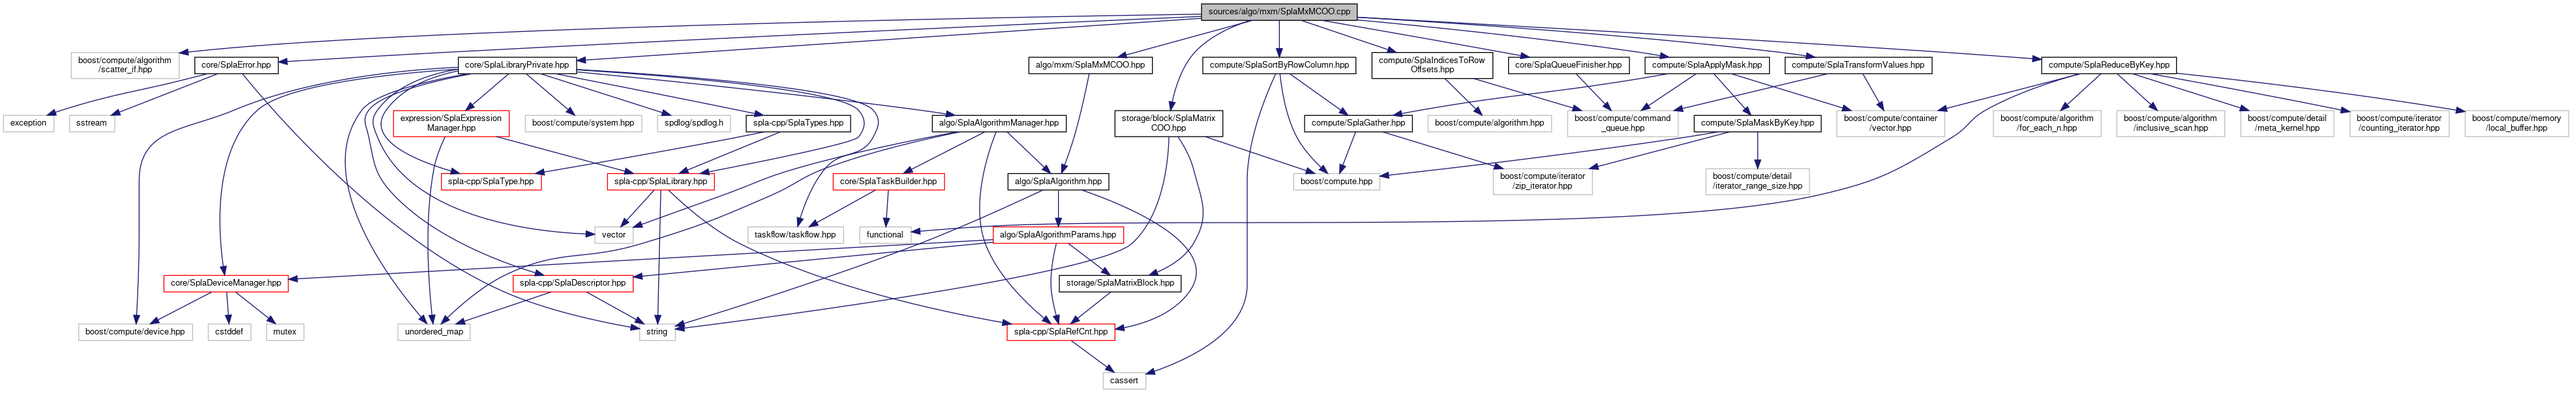
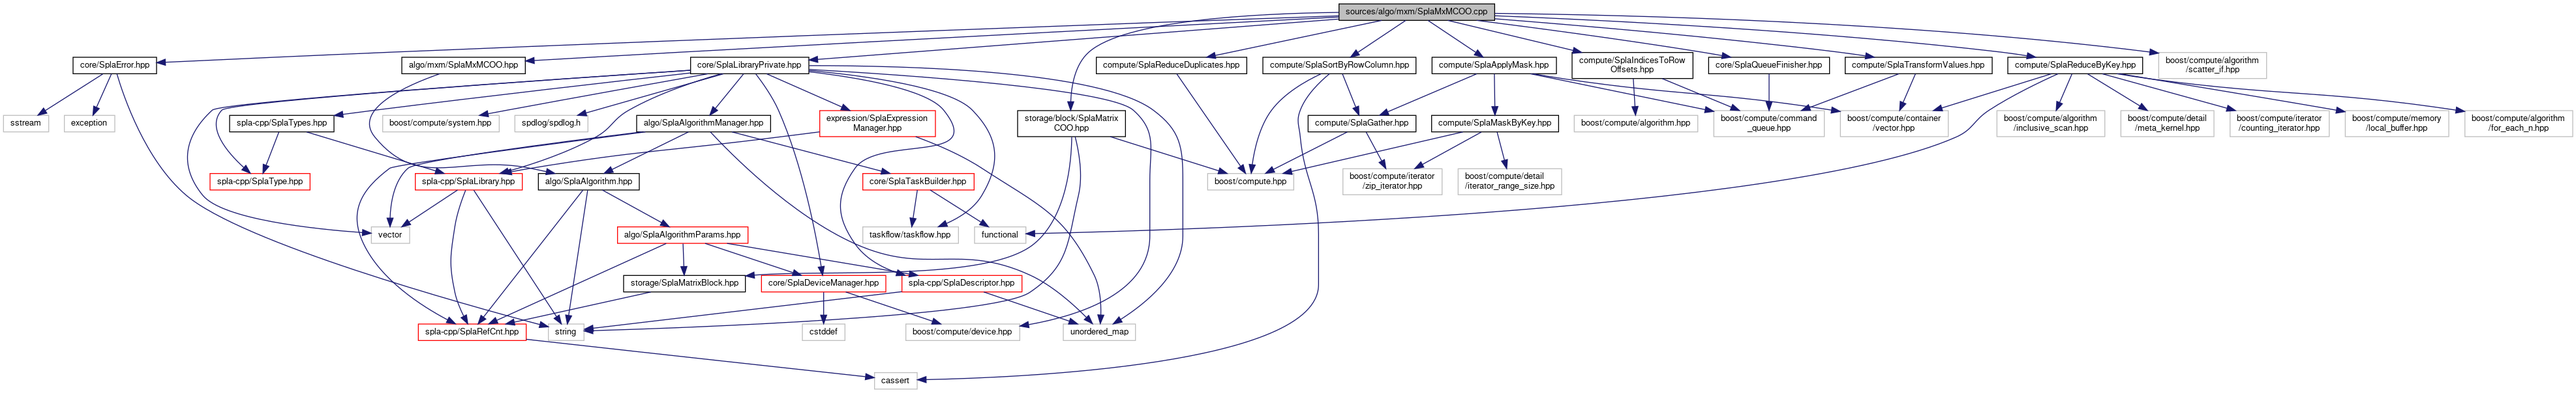
deploy: 72efadf4f2c9c58a021727ab670b9ccb939879e3

diff --git a/dir_000003_000008.html b/dir_000003_000008.html
@@ -65,7 +65,7 @@ $(function() {
 </div>
 </div><!-- top -->
 <div class="contents">
-<h3>algo &rarr; compute Relation</h3><table class="dirtab"><tr class="dirtab"><th class="dirtab">File in sources/algo</th><th class="dirtab">Includes file in sources/compute</th></tr><tr class="dirtab"><td class="dirtab"><a class="el" href="dir_35f91498b7ffde7c990e25df80c2a440.html">matrix</a>&#160;/&#160;<a class="el" href="SplaMatrixEWiseAddCOO_8cpp.html">SplaMatrixEWiseAddCOO.cpp</a></td><td class="dirtab"><a class="el" href="SplaGather_8hpp.html">SplaGather.hpp</a></td></tr><tr class="dirtab"><td class="dirtab"><a class="el" href="dir_35f91498b7ffde7c990e25df80c2a440.html">matrix</a>&#160;/&#160;<a class="el" href="SplaMatrixEWiseAddCOO_8cpp.html">SplaMatrixEWiseAddCOO.cpp</a></td><td class="dirtab"><a class="el" href="SplaMaskByKey_8hpp.html">SplaMaskByKey.hpp</a></td></tr><tr class="dirtab"><td class="dirtab"><a class="el" href="dir_35f91498b7ffde7c990e25df80c2a440.html">matrix</a>&#160;/&#160;<a class="el" href="SplaMatrixEWiseAddCOO_8cpp.html">SplaMatrixEWiseAddCOO.cpp</a></td><td class="dirtab"><a class="el" href="SplaMergeByKey_8hpp.html">SplaMergeByKey.hpp</a></td></tr><tr class="dirtab"><td class="dirtab"><a class="el" href="dir_35f91498b7ffde7c990e25df80c2a440.html">matrix</a>&#160;/&#160;<a class="el" href="SplaMatrixEWiseAddCOO_8cpp.html">SplaMatrixEWiseAddCOO.cpp</a></td><td class="dirtab"><a class="el" href="SplaReduceDuplicates_8hpp.html">SplaReduceDuplicates.hpp</a></td></tr><tr class="dirtab"><td class="dirtab"><a class="el" href="dir_8a44f30f52d2d939726e19a7a4f1b631.html">mxm</a>&#160;/&#160;<a class="el" href="SplaMxMCOO_8cpp.html">SplaMxMCOO.cpp</a></td><td class="dirtab"><a class="el" href="SplaApplyMask_8hpp.html">SplaApplyMask.hpp</a></td></tr><tr class="dirtab"><td class="dirtab"><a class="el" href="dir_8a44f30f52d2d939726e19a7a4f1b631.html">mxm</a>&#160;/&#160;<a class="el" href="SplaMxMCOO_8cpp.html">SplaMxMCOO.cpp</a></td><td class="dirtab"><a class="el" href="SplaIndicesToRowOffsets_8hpp.html">SplaIndicesToRowOffsets.hpp</a></td></tr><tr class="dirtab"><td class="dirtab"><a class="el" href="dir_8a44f30f52d2d939726e19a7a4f1b631.html">mxm</a>&#160;/&#160;<a class="el" href="SplaMxMCOO_8cpp.html">SplaMxMCOO.cpp</a></td><td class="dirtab"><a class="el" href="SplaReduceByKey_8hpp.html">SplaReduceByKey.hpp</a></td></tr><tr class="dirtab"><td class="dirtab"><a class="el" href="dir_8a44f30f52d2d939726e19a7a4f1b631.html">mxm</a>&#160;/&#160;<a class="el" href="SplaMxMCOO_8cpp.html">SplaMxMCOO.cpp</a></td><td class="dirtab"><a class="el" href="SplaSortByRowColumn_8hpp.html">SplaSortByRowColumn.hpp</a></td></tr><tr class="dirtab"><td class="dirtab"><a class="el" href="dir_8a44f30f52d2d939726e19a7a4f1b631.html">mxm</a>&#160;/&#160;<a class="el" href="SplaMxMCOO_8cpp.html">SplaMxMCOO.cpp</a></td><td class="dirtab"><a class="el" href="SplaTransformValues_8hpp.html">SplaTransformValues.hpp</a></td></tr><tr class="dirtab"><td class="dirtab"><a class="el" href="dir_4bfac634b760e84e6bfa72debc69dfd2.html">vector</a>&#160;/&#160;<a class="el" href="SplaVectorAssignCOO_8cpp.html">SplaVectorAssignCOO.cpp</a></td><td class="dirtab"><a class="el" href="SplaGather_8hpp.html">SplaGather.hpp</a></td></tr><tr class="dirtab"><td class="dirtab"><a class="el" href="dir_4bfac634b760e84e6bfa72debc69dfd2.html">vector</a>&#160;/&#160;<a class="el" href="SplaVectorAssignCOO_8cpp.html">SplaVectorAssignCOO.cpp</a></td><td class="dirtab"><a class="el" href="SplaMaskByKey_8hpp.html">SplaMaskByKey.hpp</a></td></tr><tr class="dirtab"><td class="dirtab"><a class="el" href="dir_4bfac634b760e84e6bfa72debc69dfd2.html">vector</a>&#160;/&#160;<a class="el" href="SplaVectorEWiseAddCOO_8cpp.html">SplaVectorEWiseAddCOO.cpp</a></td><td class="dirtab"><a class="el" href="SplaGather_8hpp.html">SplaGather.hpp</a></td></tr><tr class="dirtab"><td class="dirtab"><a class="el" href="dir_4bfac634b760e84e6bfa72debc69dfd2.html">vector</a>&#160;/&#160;<a class="el" href="SplaVectorEWiseAddCOO_8cpp.html">SplaVectorEWiseAddCOO.cpp</a></td><td class="dirtab"><a class="el" href="SplaMaskByKey_8hpp.html">SplaMaskByKey.hpp</a></td></tr><tr class="dirtab"><td class="dirtab"><a class="el" href="dir_4bfac634b760e84e6bfa72debc69dfd2.html">vector</a>&#160;/&#160;<a class="el" href="SplaVectorEWiseAddCOO_8cpp.html">SplaVectorEWiseAddCOO.cpp</a></td><td class="dirtab"><a class="el" href="SplaMergeByKey_8hpp.html">SplaMergeByKey.hpp</a></td></tr><tr class="dirtab"><td class="dirtab"><a class="el" href="dir_4bfac634b760e84e6bfa72debc69dfd2.html">vector</a>&#160;/&#160;<a class="el" href="SplaVectorEWiseAddCOO_8cpp.html">SplaVectorEWiseAddCOO.cpp</a></td><td class="dirtab"><a class="el" href="SplaReduceDuplicates_8hpp.html">SplaReduceDuplicates.hpp</a></td></tr><tr class="dirtab"><td class="dirtab"><a class="el" href="dir_ae3bf4b023994b257aa9f3d0308d7e2e.html">vxm</a>&#160;/&#160;<a class="el" href="SplaVxMCOO_8cpp.html">SplaVxMCOO.cpp</a></td><td class="dirtab"><a class="el" href="SplaApplyMask_8hpp.html">SplaApplyMask.hpp</a></td></tr><tr class="dirtab"><td class="dirtab"><a class="el" href="dir_ae3bf4b023994b257aa9f3d0308d7e2e.html">vxm</a>&#160;/&#160;<a class="el" href="SplaVxMCOO_8cpp.html">SplaVxMCOO.cpp</a></td><td class="dirtab"><a class="el" href="SplaIndicesToRowOffsets_8hpp.html">SplaIndicesToRowOffsets.hpp</a></td></tr><tr class="dirtab"><td class="dirtab"><a class="el" href="dir_ae3bf4b023994b257aa9f3d0308d7e2e.html">vxm</a>&#160;/&#160;<a class="el" href="SplaVxMCOO_8cpp.html">SplaVxMCOO.cpp</a></td><td class="dirtab"><a class="el" href="SplaReduceByKey_8hpp.html">SplaReduceByKey.hpp</a></td></tr><tr class="dirtab"><td class="dirtab"><a class="el" href="dir_ae3bf4b023994b257aa9f3d0308d7e2e.html">vxm</a>&#160;/&#160;<a class="el" href="SplaVxMCOO_8cpp.html">SplaVxMCOO.cpp</a></td><td class="dirtab"><a class="el" href="SplaReduceDuplicates_8hpp.html">SplaReduceDuplicates.hpp</a></td></tr><tr class="dirtab"><td class="dirtab"><a class="el" href="dir_ae3bf4b023994b257aa9f3d0308d7e2e.html">vxm</a>&#160;/&#160;<a class="el" href="SplaVxMCOO_8cpp.html">SplaVxMCOO.cpp</a></td><td class="dirtab"><a class="el" href="SplaSortByRow_8hpp.html">SplaSortByRow.hpp</a></td></tr><tr class="dirtab"><td class="dirtab"><a class="el" href="dir_ae3bf4b023994b257aa9f3d0308d7e2e.html">vxm</a>&#160;/&#160;<a class="el" href="SplaVxMCOO_8cpp.html">SplaVxMCOO.cpp</a></td><td class="dirtab"><a class="el" href="SplaTransformValues_8hpp.html">SplaTransformValues.hpp</a></td></tr></table></div><!-- contents -->
+<h3>algo &rarr; compute Relation</h3><table class="dirtab"><tr class="dirtab"><th class="dirtab">File in sources/algo</th><th class="dirtab">Includes file in sources/compute</th></tr><tr class="dirtab"><td class="dirtab"><a class="el" href="dir_35f91498b7ffde7c990e25df80c2a440.html">matrix</a>&#160;/&#160;<a class="el" href="SplaMatrixEWiseAddCOO_8cpp.html">SplaMatrixEWiseAddCOO.cpp</a></td><td class="dirtab"><a class="el" href="SplaGather_8hpp.html">SplaGather.hpp</a></td></tr><tr class="dirtab"><td class="dirtab"><a class="el" href="dir_35f91498b7ffde7c990e25df80c2a440.html">matrix</a>&#160;/&#160;<a class="el" href="SplaMatrixEWiseAddCOO_8cpp.html">SplaMatrixEWiseAddCOO.cpp</a></td><td class="dirtab"><a class="el" href="SplaMaskByKey_8hpp.html">SplaMaskByKey.hpp</a></td></tr><tr class="dirtab"><td class="dirtab"><a class="el" href="dir_35f91498b7ffde7c990e25df80c2a440.html">matrix</a>&#160;/&#160;<a class="el" href="SplaMatrixEWiseAddCOO_8cpp.html">SplaMatrixEWiseAddCOO.cpp</a></td><td class="dirtab"><a class="el" href="SplaMergeByKey_8hpp.html">SplaMergeByKey.hpp</a></td></tr><tr class="dirtab"><td class="dirtab"><a class="el" href="dir_35f91498b7ffde7c990e25df80c2a440.html">matrix</a>&#160;/&#160;<a class="el" href="SplaMatrixEWiseAddCOO_8cpp.html">SplaMatrixEWiseAddCOO.cpp</a></td><td class="dirtab"><a class="el" href="SplaReduceDuplicates_8hpp.html">SplaReduceDuplicates.hpp</a></td></tr><tr class="dirtab"><td class="dirtab"><a class="el" href="dir_8a44f30f52d2d939726e19a7a4f1b631.html">mxm</a>&#160;/&#160;<a class="el" href="SplaMxMCOO_8cpp.html">SplaMxMCOO.cpp</a></td><td class="dirtab"><a class="el" href="SplaApplyMask_8hpp.html">SplaApplyMask.hpp</a></td></tr><tr class="dirtab"><td class="dirtab"><a class="el" href="dir_8a44f30f52d2d939726e19a7a4f1b631.html">mxm</a>&#160;/&#160;<a class="el" href="SplaMxMCOO_8cpp.html">SplaMxMCOO.cpp</a></td><td class="dirtab"><a class="el" href="SplaIndicesToRowOffsets_8hpp.html">SplaIndicesToRowOffsets.hpp</a></td></tr><tr class="dirtab"><td class="dirtab"><a class="el" href="dir_8a44f30f52d2d939726e19a7a4f1b631.html">mxm</a>&#160;/&#160;<a class="el" href="SplaMxMCOO_8cpp.html">SplaMxMCOO.cpp</a></td><td class="dirtab"><a class="el" href="SplaReduceByKey_8hpp.html">SplaReduceByKey.hpp</a></td></tr><tr class="dirtab"><td class="dirtab"><a class="el" href="dir_8a44f30f52d2d939726e19a7a4f1b631.html">mxm</a>&#160;/&#160;<a class="el" href="SplaMxMCOO_8cpp.html">SplaMxMCOO.cpp</a></td><td class="dirtab"><a class="el" href="SplaReduceDuplicates_8hpp.html">SplaReduceDuplicates.hpp</a></td></tr><tr class="dirtab"><td class="dirtab"><a class="el" href="dir_8a44f30f52d2d939726e19a7a4f1b631.html">mxm</a>&#160;/&#160;<a class="el" href="SplaMxMCOO_8cpp.html">SplaMxMCOO.cpp</a></td><td class="dirtab"><a class="el" href="SplaSortByRowColumn_8hpp.html">SplaSortByRowColumn.hpp</a></td></tr><tr class="dirtab"><td class="dirtab"><a class="el" href="dir_8a44f30f52d2d939726e19a7a4f1b631.html">mxm</a>&#160;/&#160;<a class="el" href="SplaMxMCOO_8cpp.html">SplaMxMCOO.cpp</a></td><td class="dirtab"><a class="el" href="SplaTransformValues_8hpp.html">SplaTransformValues.hpp</a></td></tr><tr class="dirtab"><td class="dirtab"><a class="el" href="dir_4bfac634b760e84e6bfa72debc69dfd2.html">vector</a>&#160;/&#160;<a class="el" href="SplaVectorAssignCOO_8cpp.html">SplaVectorAssignCOO.cpp</a></td><td class="dirtab"><a class="el" href="SplaGather_8hpp.html">SplaGather.hpp</a></td></tr><tr class="dirtab"><td class="dirtab"><a class="el" href="dir_4bfac634b760e84e6bfa72debc69dfd2.html">vector</a>&#160;/&#160;<a class="el" href="SplaVectorAssignCOO_8cpp.html">SplaVectorAssignCOO.cpp</a></td><td class="dirtab"><a class="el" href="SplaMaskByKey_8hpp.html">SplaMaskByKey.hpp</a></td></tr><tr class="dirtab"><td class="dirtab"><a class="el" href="dir_4bfac634b760e84e6bfa72debc69dfd2.html">vector</a>&#160;/&#160;<a class="el" href="SplaVectorEWiseAddCOO_8cpp.html">SplaVectorEWiseAddCOO.cpp</a></td><td class="dirtab"><a class="el" href="SplaGather_8hpp.html">SplaGather.hpp</a></td></tr><tr class="dirtab"><td class="dirtab"><a class="el" href="dir_4bfac634b760e84e6bfa72debc69dfd2.html">vector</a>&#160;/&#160;<a class="el" href="SplaVectorEWiseAddCOO_8cpp.html">SplaVectorEWiseAddCOO.cpp</a></td><td class="dirtab"><a class="el" href="SplaMaskByKey_8hpp.html">SplaMaskByKey.hpp</a></td></tr><tr class="dirtab"><td class="dirtab"><a class="el" href="dir_4bfac634b760e84e6bfa72debc69dfd2.html">vector</a>&#160;/&#160;<a class="el" href="SplaVectorEWiseAddCOO_8cpp.html">SplaVectorEWiseAddCOO.cpp</a></td><td class="dirtab"><a class="el" href="SplaMergeByKey_8hpp.html">SplaMergeByKey.hpp</a></td></tr><tr class="dirtab"><td class="dirtab"><a class="el" href="dir_4bfac634b760e84e6bfa72debc69dfd2.html">vector</a>&#160;/&#160;<a class="el" href="SplaVectorEWiseAddCOO_8cpp.html">SplaVectorEWiseAddCOO.cpp</a></td><td class="dirtab"><a class="el" href="SplaReduceDuplicates_8hpp.html">SplaReduceDuplicates.hpp</a></td></tr><tr class="dirtab"><td class="dirtab"><a class="el" href="dir_ae3bf4b023994b257aa9f3d0308d7e2e.html">vxm</a>&#160;/&#160;<a class="el" href="SplaVxMCOO_8cpp.html">SplaVxMCOO.cpp</a></td><td class="dirtab"><a class="el" href="SplaApplyMask_8hpp.html">SplaApplyMask.hpp</a></td></tr><tr class="dirtab"><td class="dirtab"><a class="el" href="dir_ae3bf4b023994b257aa9f3d0308d7e2e.html">vxm</a>&#160;/&#160;<a class="el" href="SplaVxMCOO_8cpp.html">SplaVxMCOO.cpp</a></td><td class="dirtab"><a class="el" href="SplaIndicesToRowOffsets_8hpp.html">SplaIndicesToRowOffsets.hpp</a></td></tr><tr class="dirtab"><td class="dirtab"><a class="el" href="dir_ae3bf4b023994b257aa9f3d0308d7e2e.html">vxm</a>&#160;/&#160;<a class="el" href="SplaVxMCOO_8cpp.html">SplaVxMCOO.cpp</a></td><td class="dirtab"><a class="el" href="SplaReduceByKey_8hpp.html">SplaReduceByKey.hpp</a></td></tr><tr class="dirtab"><td class="dirtab"><a class="el" href="dir_ae3bf4b023994b257aa9f3d0308d7e2e.html">vxm</a>&#160;/&#160;<a class="el" href="SplaVxMCOO_8cpp.html">SplaVxMCOO.cpp</a></td><td class="dirtab"><a class="el" href="SplaReduceDuplicates_8hpp.html">SplaReduceDuplicates.hpp</a></td></tr><tr class="dirtab"><td class="dirtab"><a class="el" href="dir_ae3bf4b023994b257aa9f3d0308d7e2e.html">vxm</a>&#160;/&#160;<a class="el" href="SplaVxMCOO_8cpp.html">SplaVxMCOO.cpp</a></td><td class="dirtab"><a class="el" href="SplaSortByRow_8hpp.html">SplaSortByRow.hpp</a></td></tr><tr class="dirtab"><td class="dirtab"><a class="el" href="dir_ae3bf4b023994b257aa9f3d0308d7e2e.html">vxm</a>&#160;/&#160;<a class="el" href="SplaVxMCOO_8cpp.html">SplaVxMCOO.cpp</a></td><td class="dirtab"><a class="el" href="SplaTransformValues_8hpp.html">SplaTransformValues.hpp</a></td></tr></table></div><!-- contents -->
 <!-- start footer part -->
 <hr class="footer"/><address class="footer"><small>
 Generated by&#160;<a href="https://www.doxygen.org/index.html"><img class="footer" src="doxygen.svg" width="104" height="31" alt="doxygen"/></a> 1.9.1

diff --git a/SplaMxMCOO_8cpp.html b/SplaMxMCOO_8cpp.html
@@ -73,11 +73,12 @@ $(function() {
 <div class="title">SplaMxMCOO.cpp File Reference</div>  </div>
 </div><!--header-->
 <div class="contents">
-<div class="textblock"><code>#include &lt;boost/compute/algorithm/scatter_if.hpp&gt;</code><br />
-<code>#include &lt;<a class="el" href="SplaMxMCOO_8hpp_source.html">algo/mxm/SplaMxMCOO.hpp</a>&gt;</code><br />
+<div class="textblock"><code>#include &lt;<a class="el" href="SplaMxMCOO_8hpp_source.html">algo/mxm/SplaMxMCOO.hpp</a>&gt;</code><br />
+<code>#include &lt;boost/compute/algorithm/scatter_if.hpp&gt;</code><br />
 <code>#include &lt;<a class="el" href="SplaApplyMask_8hpp_source.html">compute/SplaApplyMask.hpp</a>&gt;</code><br />
 <code>#include &lt;<a class="el" href="SplaIndicesToRowOffsets_8hpp_source.html">compute/SplaIndicesToRowOffsets.hpp</a>&gt;</code><br />
 <code>#include &lt;<a class="el" href="SplaReduceByKey_8hpp_source.html">compute/SplaReduceByKey.hpp</a>&gt;</code><br />
+<code>#include &lt;<a class="el" href="SplaReduceDuplicates_8hpp_source.html">compute/SplaReduceDuplicates.hpp</a>&gt;</code><br />
 <code>#include &lt;<a class="el" href="SplaSortByRowColumn_8hpp_source.html">compute/SplaSortByRowColumn.hpp</a>&gt;</code><br />
 <code>#include &lt;<a class="el" href="SplaTransformValues_8hpp_source.html">compute/SplaTransformValues.hpp</a>&gt;</code><br />
 <code>#include &lt;<a class="el" href="SplaError_8hpp_source.html">core/SplaError.hpp</a>&gt;</code><br />
@@ -89,56 +90,56 @@ Include dependency graph for SplaMxMCOO.cpp:</div>
 <div class="dyncontent">
 <div class="center"><img src="SplaMxMCOO_8cpp__incl.png" border="0" usemap="#asources_2algo_2mxm_2SplaMxMCOO_8cpp" alt=""/></div>
 <map name="asources_2algo_2mxm_2SplaMxMCOO_8cpp" id="asources_2algo_2mxm_2SplaMxMCOO_8cpp">
-<area shape="rect" title=" " alt="" coords="1842,5,2081,32"/>
-<area shape="rect" title=" " alt="" coords="109,80,275,121"/>
-<area shape="rect" href="SplaMxMCOO_8hpp.html" title=" " alt="" coords="1577,87,1767,114"/>
-<area shape="rect" href="SplaApplyMask_8hpp.html" title=" " alt="" coords="2522,87,2713,114"/>
-<area shape="rect" href="SplaIndicesToRowOffsets_8hpp.html" title=" " alt="" coords="2103,80,2289,121"/>
-<area shape="rect" href="SplaReduceByKey_8hpp.html" title=" " alt="" coords="3130,87,3337,114"/>
-<area shape="rect" href="SplaSortByRowColumn_8hpp.html" title=" " alt="" coords="1844,87,2079,114"/>
-<area shape="rect" href="SplaTransformValues_8hpp.html" title=" " alt="" coords="2737,87,2962,114"/>
-<area shape="rect" href="SplaError_8hpp.html" title=" " alt="" coords="299,87,427,114"/>
-<area shape="rect" href="SplaLibraryPrivate_8hpp.html" title=" " alt="" coords="703,87,884,114"/>
-<area shape="rect" href="SplaQueueFinisher_8hpp.html" title=" " alt="" coords="2313,87,2498,114"/>
-<area shape="rect" href="SplaMatrixCOO_8hpp.html" title=" " alt="" coords="1709,169,1875,211"/>
-<area shape="rect" href="SplaAlgorithm_8hpp.html" title=" " alt="" coords="1545,266,1700,293"/>
-<area shape="rect" href="SplaAlgorithmParams_8hpp.html" title=" " alt="" coords="1523,348,1723,375"/>
-<area shape="rect" title=" " alt="" coords="981,497,1035,524"/>
-<area shape="rect" href="SplaRefCnt_8hpp.html" title=" " alt="" coords="1544,497,1709,524"/>
-<area shape="rect" href="SplaDeviceManager_8hpp.html" title=" " alt="" coords="251,423,442,449"/>
-<area shape="rect" href="SplaDescriptor_8hpp.html" title=" " alt="" coords="787,423,971,449"/>
-<area shape="rect" href="SplaMatrixBlock_8hpp.html" title=" " alt="" coords="1624,423,1811,449"/>
-<area shape="rect" title=" " alt="" coords="121,497,295,524"/>
-<area shape="rect" title=" " alt="" coords="319,497,385,524"/>
-<area shape="rect" title=" " alt="" coords="409,497,466,524"/>
-<area shape="rect" title=" " alt="" coords="610,497,721,524"/>
-<area shape="rect" title=" " alt="" coords="1691,572,1757,599"/>
-<area shape="rect" title=" " alt="" coords="2403,169,2573,211"/>
-<area shape="rect" title=" " alt="" coords="2816,169,2981,211"/>
-<area shape="rect" href="SplaGather_8hpp.html" title=" " alt="" coords="2000,177,2165,203"/>
-<area shape="rect" href="SplaMaskByKey_8hpp.html" title=" " alt="" coords="2597,177,2792,203"/>
-<area shape="rect" title=" " alt="" coords="1983,266,2115,293"/>
-<area shape="rect" title=" " alt="" coords="2289,259,2441,300"/>
-<area shape="rect" title=" " alt="" coords="2615,259,2774,300"/>
-<area shape="rect" title=" " alt="" coords="2189,177,2379,203"/>
-<area shape="rect" title=" " alt="" coords="1318,348,1397,375"/>
-<area shape="rect" title=" " alt="" coords="3056,169,3221,211"/>
-<area shape="rect" title=" " alt="" coords="3245,169,3411,211"/>
-<area shape="rect" title=" " alt="" coords="3435,169,3578,211"/>
-<area shape="rect" title=" " alt="" coords="3603,169,3755,211"/>
-<area shape="rect" title=" " alt="" coords="3779,169,3938,211"/>
-<area shape="rect" title=" " alt="" coords="5,177,83,203"/>
-<area shape="rect" title=" " alt="" coords="107,177,176,203"/>
-<area shape="rect" href="SplaAlgorithmManager_8hpp.html" title=" " alt="" coords="1429,177,1635,203"/>
-<area shape="rect" title=" " alt="" coords="1147,348,1293,375"/>
-<area shape="rect" title=" " alt="" coords="912,348,971,375"/>
-<area shape="rect" title=" " alt="" coords="805,177,984,203"/>
-<area shape="rect" href="SplaExpressionManager_8hpp.html" title=" " alt="" coords="603,169,781,211"/>
-<area shape="rect" href="SplaLibrary_8hpp.html" title=" " alt="" coords="931,266,1095,293"/>
-<area shape="rect" title=" " alt="" coords="1008,177,1120,203"/>
-<area shape="rect" href="SplaType_8hpp.html" title=" " alt="" coords="677,266,830,293"/>
-<area shape="rect" href="SplaTypes_8hpp.html" title=" " alt="" coords="1144,177,1304,203"/>
-<area shape="rect" href="SplaTaskBuilder_8hpp.html" title=" " alt="" coords="1277,266,1448,293"/>
+<area shape="rect" title=" " alt="" coords="2053,5,2291,32"/>
+<area shape="rect" href="SplaMxMCOO_8hpp.html" title=" " alt="" coords="616,87,805,114"/>
+<area shape="rect" title=" " alt="" coords="3309,80,3475,121"/>
+<area shape="rect" href="SplaApplyMask_8hpp.html" title=" " alt="" coords="2195,87,2386,114"/>
+<area shape="rect" href="SplaIndicesToRowOffsets_8hpp.html" title=" " alt="" coords="2410,80,2595,121"/>
+<area shape="rect" href="SplaReduceByKey_8hpp.html" title=" " alt="" coords="3078,87,3285,114"/>
+<area shape="rect" href="SplaReduceDuplicates_8hpp.html" title=" " alt="" coords="1681,87,1911,114"/>
+<area shape="rect" href="SplaSortByRowColumn_8hpp.html" title=" " alt="" coords="1936,87,2171,114"/>
+<area shape="rect" href="SplaTransformValues_8hpp.html" title=" " alt="" coords="2829,87,3054,114"/>
+<area shape="rect" href="SplaError_8hpp.html" title=" " alt="" coords="112,87,240,114"/>
+<area shape="rect" href="SplaLibraryPrivate_8hpp.html" title=" " alt="" coords="1059,87,1240,114"/>
+<area shape="rect" href="SplaQueueFinisher_8hpp.html" title=" " alt="" coords="2619,87,2805,114"/>
+<area shape="rect" href="SplaMatrixCOO_8hpp.html" title=" " alt="" coords="1560,169,1725,211"/>
+<area shape="rect" href="SplaAlgorithm_8hpp.html" title=" " alt="" coords="825,266,980,293"/>
+<area shape="rect" href="SplaAlgorithmParams_8hpp.html" title=" " alt="" coords="947,348,1147,375"/>
+<area shape="rect" title=" " alt="" coords="841,497,895,524"/>
+<area shape="rect" href="SplaRefCnt_8hpp.html" title=" " alt="" coords="641,497,807,524"/>
+<area shape="rect" href="SplaDeviceManager_8hpp.html" title=" " alt="" coords="1167,423,1358,449"/>
+<area shape="rect" href="SplaDescriptor_8hpp.html" title=" " alt="" coords="1383,423,1567,449"/>
+<area shape="rect" href="SplaMatrixBlock_8hpp.html" title=" " alt="" coords="956,423,1143,449"/>
+<area shape="rect" title=" " alt="" coords="1389,497,1563,524"/>
+<area shape="rect" title=" " alt="" coords="1230,497,1295,524"/>
+<area shape="rect" title=" " alt="" coords="1630,497,1741,524"/>
+<area shape="rect" title=" " alt="" coords="1341,572,1406,599"/>
+<area shape="rect" title=" " alt="" coords="2627,169,2797,211"/>
+<area shape="rect" title=" " alt="" coords="2821,169,2987,211"/>
+<area shape="rect" href="SplaGather_8hpp.html" title=" " alt="" coords="2005,177,2171,203"/>
+<area shape="rect" href="SplaMaskByKey_8hpp.html" title=" " alt="" coords="2195,177,2389,203"/>
+<area shape="rect" title=" " alt="" coords="1851,266,1983,293"/>
+<area shape="rect" title=" " alt="" coords="2059,259,2211,300"/>
+<area shape="rect" title=" " alt="" coords="2235,259,2394,300"/>
+<area shape="rect" title=" " alt="" coords="2413,177,2603,203"/>
+<area shape="rect" title=" " alt="" coords="1494,348,1573,375"/>
+<area shape="rect" title=" " alt="" coords="3779,169,3944,211"/>
+<area shape="rect" title=" " alt="" coords="3061,169,3227,211"/>
+<area shape="rect" title=" " alt="" coords="3251,169,3394,211"/>
+<area shape="rect" title=" " alt="" coords="3419,169,3571,211"/>
+<area shape="rect" title=" " alt="" coords="3595,169,3754,211"/>
+<area shape="rect" title=" " alt="" coords="99,177,176,203"/>
+<area shape="rect" title=" " alt="" coords="5,177,75,203"/>
+<area shape="rect" href="SplaAlgorithmManager_8hpp.html" title=" " alt="" coords="976,177,1181,203"/>
+<area shape="rect" title=" " alt="" coords="1323,348,1469,375"/>
+<area shape="rect" title=" " alt="" coords="569,348,628,375"/>
+<area shape="rect" title=" " alt="" coords="587,177,765,203"/>
+<area shape="rect" href="SplaExpressionManager_8hpp.html" title=" " alt="" coords="1257,169,1434,211"/>
+<area shape="rect" href="SplaLibrary_8hpp.html" title=" " alt="" coords="637,266,801,293"/>
+<area shape="rect" title=" " alt="" coords="789,177,901,203"/>
+<area shape="rect" href="SplaType_8hpp.html" title=" " alt="" coords="322,266,475,293"/>
+<area shape="rect" href="SplaTypes_8hpp.html" title=" " alt="" coords="352,177,512,203"/>
+<area shape="rect" href="SplaTaskBuilder_8hpp.html" title=" " alt="" coords="1323,266,1493,293"/>
 </map>
 </div>
 </div><table class="memberdecls">

diff --git a/SplaIndicesToRowOffsets_8hpp_source.html b/SplaIndicesToRowOffsets_8hpp_source.html
@@ -126,22 +126,21 @@ $(function() {
 <div class="line"><a name="l00075"></a><span class="lineno">   75</span>&#160;        });</div>
 <div class="line"><a name="l00076"></a><span class="lineno">   76</span>&#160; </div>
 <div class="line"><a name="l00077"></a><span class="lineno">   77</span>&#160;        compute::for_each_n(compute::counting_iterator&lt;unsigned int&gt;(0), indices.size(), countRowLengths, queue);</div>
-<div class="line"><a name="l00078"></a><span class="lineno">   78</span>&#160; </div>
-<div class="line"><a name="l00079"></a><span class="lineno">   79</span>&#160;        compute::exclusive_scan(lengths.begin(), lengths.end(), offsets.begin(), queue);</div>
-<div class="line"><a name="l00080"></a><span class="lineno">   80</span>&#160;    }</div>
-<div class="line"><a name="l00081"></a><span class="lineno">   81</span>&#160; </div>
-<div class="line"><a name="l00085"></a><span class="lineno"><a class="line" href="group__Internal.html#ga4d069a703bfb0a1a6bb2bff3add69e8e">   85</a></span>&#160;    <span class="keyword">inline</span> <span class="keywordtype">void</span> <a class="code" href="group__Internal.html#ga30d6fd3b316764e254205dc7133f4201">IndicesToRowOffsets</a>(<span class="keyword">const</span> boost::compute::vector&lt;unsigned int&gt; &amp;indices,</div>
-<div class="line"><a name="l00086"></a><span class="lineno">   86</span>&#160;                                    boost::compute::vector&lt;unsigned int&gt; &amp;offsets,</div>
-<div class="line"><a name="l00087"></a><span class="lineno">   87</span>&#160;                                    std::size_t n,</div>
-<div class="line"><a name="l00088"></a><span class="lineno">   88</span>&#160;                                    boost::compute::command_queue &amp;queue) {</div>
-<div class="line"><a name="l00089"></a><span class="lineno">   89</span>&#160;        <span class="keyword">using namespace </span>boost;</div>
-<div class="line"><a name="l00090"></a><span class="lineno">   90</span>&#160;        boost::compute::vector&lt;unsigned int&gt; lengths(queue.get_context());</div>
-<div class="line"><a name="l00091"></a><span class="lineno">   91</span>&#160;        <a class="code" href="group__Internal.html#ga30d6fd3b316764e254205dc7133f4201">IndicesToRowOffsets</a>(indices, offsets, lengths, n, queue);</div>
-<div class="line"><a name="l00092"></a><span class="lineno">   92</span>&#160;    }</div>
-<div class="line"><a name="l00093"></a><span class="lineno">   93</span>&#160; </div>
-<div class="line"><a name="l00098"></a><span class="lineno">   98</span>&#160;}<span class="comment">// namespace spla</span></div>
-<div class="line"><a name="l00099"></a><span class="lineno">   99</span>&#160; </div>
-<div class="line"><a name="l00100"></a><span class="lineno">  100</span>&#160;<span class="preprocessor">#endif</span><span class="comment">//SPLA_SPLAINDICESTOROWOFFSETS_HPP</span></div>
+<div class="line"><a name="l00078"></a><span class="lineno">   78</span>&#160;        compute::exclusive_scan(lengths.begin(), lengths.end(), offsets.begin(), queue);</div>
+<div class="line"><a name="l00079"></a><span class="lineno">   79</span>&#160;    }</div>
+<div class="line"><a name="l00080"></a><span class="lineno">   80</span>&#160; </div>
+<div class="line"><a name="l00084"></a><span class="lineno"><a class="line" href="group__Internal.html#ga4d069a703bfb0a1a6bb2bff3add69e8e">   84</a></span>&#160;    <span class="keyword">inline</span> <span class="keywordtype">void</span> <a class="code" href="group__Internal.html#ga30d6fd3b316764e254205dc7133f4201">IndicesToRowOffsets</a>(<span class="keyword">const</span> boost::compute::vector&lt;unsigned int&gt; &amp;indices,</div>
+<div class="line"><a name="l00085"></a><span class="lineno">   85</span>&#160;                                    boost::compute::vector&lt;unsigned int&gt; &amp;offsets,</div>
+<div class="line"><a name="l00086"></a><span class="lineno">   86</span>&#160;                                    std::size_t n,</div>
+<div class="line"><a name="l00087"></a><span class="lineno">   87</span>&#160;                                    boost::compute::command_queue &amp;queue) {</div>
+<div class="line"><a name="l00088"></a><span class="lineno">   88</span>&#160;        <span class="keyword">using namespace </span>boost;</div>
+<div class="line"><a name="l00089"></a><span class="lineno">   89</span>&#160;        boost::compute::vector&lt;unsigned int&gt; lengths(queue.get_context());</div>
+<div class="line"><a name="l00090"></a><span class="lineno">   90</span>&#160;        <a class="code" href="group__Internal.html#ga30d6fd3b316764e254205dc7133f4201">IndicesToRowOffsets</a>(indices, offsets, lengths, n, queue);</div>
+<div class="line"><a name="l00091"></a><span class="lineno">   91</span>&#160;    }</div>
+<div class="line"><a name="l00092"></a><span class="lineno">   92</span>&#160; </div>
+<div class="line"><a name="l00097"></a><span class="lineno">   97</span>&#160;}<span class="comment">// namespace spla</span></div>
+<div class="line"><a name="l00098"></a><span class="lineno">   98</span>&#160; </div>
+<div class="line"><a name="l00099"></a><span class="lineno">   99</span>&#160;<span class="preprocessor">#endif</span><span class="comment">//SPLA_SPLAINDICESTOROWOFFSETS_HPP</span></div>
 <div class="ttc" id="agroup__Internal_html_ga30d6fd3b316764e254205dc7133f4201"><div class="ttname"><a href="group__Internal.html#ga30d6fd3b316764e254205dc7133f4201">spla::IndicesToRowOffsets</a></div><div class="ttdeci">void IndicesToRowOffsets(const boost::compute::vector&lt; unsigned int &gt; &amp;indices, boost::compute::vector&lt; unsigned int &gt; &amp;offsets, boost::compute::vector&lt; unsigned int &gt; &amp;lengths, std::size_t n, boost::compute::command_queue &amp;queue)</div><div class="ttdoc">Compute row offsets from coo row indices buffer.</div><div class="ttdef"><b>Definition:</b> SplaIndicesToRowOffsets.hpp:56</div></div>
 <div class="ttc" id="anamespacespla_html"><div class="ttname"><a href="namespacespla.html">spla</a></div><div class="ttdef"><b>Definition:</b> SplaConfig.hpp:45</div></div>
 </div><!-- fragment --></div><!-- contents -->

diff --git a/SplaMxMCOO_8hpp_source.html b/SplaMxMCOO_8hpp_source.html
@@ -119,11 +119,11 @@ $(function() {
 <div class="ttc" id="aclassspla_1_1Algorithm_html"><div class="ttname"><a href="classspla_1_1Algorithm.html">spla::Algorithm</a></div><div class="ttdoc">Algorithm interface.</div><div class="ttdef"><b>Definition:</b> SplaAlgorithm.hpp:55</div></div>
 <div class="ttc" id="aclassspla_1_1Algorithm_html_ab9cbf7c1ff7c7c0900e448b5e42074af"><div class="ttname"><a href="classspla_1_1Algorithm.html#ab9cbf7c1ff7c7c0900e448b5e42074af">spla::Algorithm::Type</a></div><div class="ttdeci">Type</div><div class="ttdef"><b>Definition:</b> SplaAlgorithm.hpp:60</div></div>
 <div class="ttc" id="aclassspla_1_1MxMCOO_html"><div class="ttname"><a href="classspla_1_1MxMCOO.html">spla::MxMCOO</a></div><div class="ttdef"><b>Definition:</b> SplaMxMCOO.hpp:34</div></div>
-<div class="ttc" id="aclassspla_1_1MxMCOO_html_a468ee8889fffd13d07acf9794bbe9676"><div class="ttname"><a href="classspla_1_1MxMCOO.html#a468ee8889fffd13d07acf9794bbe9676">spla::MxMCOO::Select</a></div><div class="ttdeci">bool Select(const AlgorithmParams &amp;params) const override</div><div class="ttdef"><b>Definition:</b> SplaMxMCOO.cpp:157</div></div>
+<div class="ttc" id="aclassspla_1_1MxMCOO_html_a468ee8889fffd13d07acf9794bbe9676"><div class="ttname"><a href="classspla_1_1MxMCOO.html#a468ee8889fffd13d07acf9794bbe9676">spla::MxMCOO::Select</a></div><div class="ttdeci">bool Select(const AlgorithmParams &amp;params) const override</div><div class="ttdef"><b>Definition:</b> SplaMxMCOO.cpp:148</div></div>
 <div class="ttc" id="aclassspla_1_1MxMCOO_html_a47bd383f4523638b78703e3e506e6ccb"><div class="ttname"><a href="classspla_1_1MxMCOO.html#a47bd383f4523638b78703e3e506e6ccb">spla::MxMCOO::~MxMCOO</a></div><div class="ttdeci">~MxMCOO() override=default</div></div>
-<div class="ttc" id="aclassspla_1_1MxMCOO_html_abf20c1c9a298559e2555d2946c477def"><div class="ttname"><a href="classspla_1_1MxMCOO.html#abf20c1c9a298559e2555d2946c477def">spla::MxMCOO::Process</a></div><div class="ttdeci">void Process(AlgorithmParams &amp;params) override</div><div class="ttdef"><b>Definition:</b> SplaMxMCOO.cpp:167</div></div>
-<div class="ttc" id="aclassspla_1_1MxMCOO_html_adcc652a2709138c37841f7fc09f657eb"><div class="ttname"><a href="classspla_1_1MxMCOO.html#adcc652a2709138c37841f7fc09f657eb">spla::MxMCOO::GetType</a></div><div class="ttdeci">Type GetType() const override</div><div class="ttdef"><b>Definition:</b> SplaMxMCOO.cpp:390</div></div>
-<div class="ttc" id="aclassspla_1_1MxMCOO_html_aeddc95c360808ed5a9752bef362df435"><div class="ttname"><a href="classspla_1_1MxMCOO.html#aeddc95c360808ed5a9752bef362df435">spla::MxMCOO::GetName</a></div><div class="ttdeci">std::string GetName() const override</div><div class="ttdef"><b>Definition:</b> SplaMxMCOO.cpp:394</div></div>
+<div class="ttc" id="aclassspla_1_1MxMCOO_html_abf20c1c9a298559e2555d2946c477def"><div class="ttname"><a href="classspla_1_1MxMCOO.html#abf20c1c9a298559e2555d2946c477def">spla::MxMCOO::Process</a></div><div class="ttdeci">void Process(AlgorithmParams &amp;params) override</div><div class="ttdef"><b>Definition:</b> SplaMxMCOO.cpp:158</div></div>
+<div class="ttc" id="aclassspla_1_1MxMCOO_html_adcc652a2709138c37841f7fc09f657eb"><div class="ttname"><a href="classspla_1_1MxMCOO.html#adcc652a2709138c37841f7fc09f657eb">spla::MxMCOO::GetType</a></div><div class="ttdeci">Type GetType() const override</div><div class="ttdef"><b>Definition:</b> SplaMxMCOO.cpp:379</div></div>
+<div class="ttc" id="aclassspla_1_1MxMCOO_html_aeddc95c360808ed5a9752bef362df435"><div class="ttname"><a href="classspla_1_1MxMCOO.html#aeddc95c360808ed5a9752bef362df435">spla::MxMCOO::GetName</a></div><div class="ttdeci">std::string GetName() const override</div><div class="ttdef"><b>Definition:</b> SplaMxMCOO.cpp:383</div></div>
 <div class="ttc" id="anamespacespla_html"><div class="ttname"><a href="namespacespla.html">spla</a></div><div class="ttdef"><b>Definition:</b> SplaConfig.hpp:45</div></div>
 </div><!-- fragment --></div><!-- contents -->
 <!-- start footer part -->

diff --git a/dir_000005_000008.html b/dir_000005_000008.html
@@ -65,7 +65,7 @@ $(function() {
 </div>
 </div><!-- top -->
 <div class="contents">
-<h3>mxm &rarr; compute Relation</h3><table class="dirtab"><tr class="dirtab"><th class="dirtab">File in sources/algo/mxm</th><th class="dirtab">Includes file in sources/compute</th></tr><tr class="dirtab"><td class="dirtab"><a class="el" href="SplaMxMCOO_8cpp.html">SplaMxMCOO.cpp</a></td><td class="dirtab"><a class="el" href="SplaApplyMask_8hpp.html">SplaApplyMask.hpp</a></td></tr><tr class="dirtab"><td class="dirtab"><a class="el" href="SplaMxMCOO_8cpp.html">SplaMxMCOO.cpp</a></td><td class="dirtab"><a class="el" href="SplaIndicesToRowOffsets_8hpp.html">SplaIndicesToRowOffsets.hpp</a></td></tr><tr class="dirtab"><td class="dirtab"><a class="el" href="SplaMxMCOO_8cpp.html">SplaMxMCOO.cpp</a></td><td class="dirtab"><a class="el" href="SplaReduceByKey_8hpp.html">SplaReduceByKey.hpp</a></td></tr><tr class="dirtab"><td class="dirtab"><a class="el" href="SplaMxMCOO_8cpp.html">SplaMxMCOO.cpp</a></td><td class="dirtab"><a class="el" href="SplaSortByRowColumn_8hpp.html">SplaSortByRowColumn.hpp</a></td></tr><tr class="dirtab"><td class="dirtab"><a class="el" href="SplaMxMCOO_8cpp.html">SplaMxMCOO.cpp</a></td><td class="dirtab"><a class="el" href="SplaTransformValues_8hpp.html">SplaTransformValues.hpp</a></td></tr></table></div><!-- contents -->
+<h3>mxm &rarr; compute Relation</h3><table class="dirtab"><tr class="dirtab"><th class="dirtab">File in sources/algo/mxm</th><th class="dirtab">Includes file in sources/compute</th></tr><tr class="dirtab"><td class="dirtab"><a class="el" href="SplaMxMCOO_8cpp.html">SplaMxMCOO.cpp</a></td><td class="dirtab"><a class="el" href="SplaApplyMask_8hpp.html">SplaApplyMask.hpp</a></td></tr><tr class="dirtab"><td class="dirtab"><a class="el" href="SplaMxMCOO_8cpp.html">SplaMxMCOO.cpp</a></td><td class="dirtab"><a class="el" href="SplaIndicesToRowOffsets_8hpp.html">SplaIndicesToRowOffsets.hpp</a></td></tr><tr class="dirtab"><td class="dirtab"><a class="el" href="SplaMxMCOO_8cpp.html">SplaMxMCOO.cpp</a></td><td class="dirtab"><a class="el" href="SplaReduceByKey_8hpp.html">SplaReduceByKey.hpp</a></td></tr><tr class="dirtab"><td class="dirtab"><a class="el" href="SplaMxMCOO_8cpp.html">SplaMxMCOO.cpp</a></td><td class="dirtab"><a class="el" href="SplaReduceDuplicates_8hpp.html">SplaReduceDuplicates.hpp</a></td></tr><tr class="dirtab"><td class="dirtab"><a class="el" href="SplaMxMCOO_8cpp.html">SplaMxMCOO.cpp</a></td><td class="dirtab"><a class="el" href="SplaSortByRowColumn_8hpp.html">SplaSortByRowColumn.hpp</a></td></tr><tr class="dirtab"><td class="dirtab"><a class="el" href="SplaMxMCOO_8cpp.html">SplaMxMCOO.cpp</a></td><td class="dirtab"><a class="el" href="SplaTransformValues_8hpp.html">SplaTransformValues.hpp</a></td></tr></table></div><!-- contents -->
 <!-- start footer part -->
 <hr class="footer"/><address class="footer"><small>
 Generated by&#160;<a href="https://www.doxygen.org/index.html"><img class="footer" src="doxygen.svg" width="104" height="31" alt="doxygen"/></a> 1.9.1

diff --git a/SplaReduceDuplicates_8hpp.html b/SplaReduceDuplicates_8hpp.html
@@ -88,10 +88,11 @@ This graph shows which files directly or indirectly include this file:</div>
 <div class="dyncontent">
 <div class="center"><img src="SplaReduceDuplicates_8hpp__dep__incl.png" border="0" usemap="#asources_2compute_2SplaReduceDuplicates_8hppdep" alt=""/></div>
 <map name="asources_2compute_2SplaReduceDuplicates_8hppdep" id="asources_2compute_2SplaReduceDuplicates_8hppdep">
-<area shape="rect" title=" " alt="" coords="233,5,429,47"/>
+<area shape="rect" title=" " alt="" coords="374,5,570,47"/>
 <area shape="rect" href="SplaMatrixEWiseAddCOO_8cpp.html" title=" " alt="" coords="5,95,205,136"/>
-<area shape="rect" href="SplaVectorEWiseAddCOO_8cpp.html" title=" " alt="" coords="229,95,432,136"/>
-<area shape="rect" href="SplaVxMCOO_8cpp.html" title=" " alt="" coords="457,102,690,129"/>
+<area shape="rect" href="SplaMxMCOO_8cpp.html" title=" " alt="" coords="230,102,469,129"/>
+<area shape="rect" href="SplaVectorEWiseAddCOO_8cpp.html" title=" " alt="" coords="493,95,696,136"/>
+<area shape="rect" href="SplaVxMCOO_8cpp.html" title=" " alt="" coords="721,102,954,129"/>
 </map>
 </div>
 </div>

diff --git a/dir_08d237fc27d4ecd563f71c5d52f2fecc.html b/dir_08d237fc27d4ecd563f71c5d52f2fecc.html
@@ -76,7 +76,7 @@ Directory dependency graph for sources:</div>
 <map name="adir__08d237fc27d4ecd563f71c5d52f2fecc__dep" id="adir__08d237fc27d4ecd563f71c5d52f2fecc__dep">
 <area shape="rect" href="dir_3fb060bb6725087b88e65cfc95051731.html" title="algo" alt="" coords="123,27,195,75"/>
 <area shape="rect" href="dir_64fc1c90ac8db2fabff5028b99f876ee.html" title="compute" alt="" coords="27,315,99,363"/>
-<area shape="rect" href="dir_000003_000008.html" title="21" alt="" coords="76,292,90,307"/>
+<area shape="rect" href="dir_000003_000008.html" title="22" alt="" coords="76,292,90,307"/>
 <area shape="rect" href="dir_f84804d282e856a3a7520c9b0540dbc7.html" title="core" alt="" coords="151,123,223,171"/>
 <area shape="rect" href="dir_000003_000009.html" title="14" alt="" coords="166,95,181,110"/>
 <area shape="rect" href="dir_e4f2c1631a1e1d64d88b483620a5662a.html" title="storage" alt="" coords="219,315,291,363"/>

diff --git a/dir_8a44f30f52d2d939726e19a7a4f1b631.html b/dir_8a44f30f52d2d939726e19a7a4f1b631.html
@@ -76,7 +76,7 @@ Directory dependency graph for mxm:</div>
 <map name="adir__8a44f30f52d2d939726e19a7a4f1b631__dep" id="adir__8a44f30f52d2d939726e19a7a4f1b631__dep">
 <area shape="rect" href="dir_8a44f30f52d2d939726e19a7a4f1b631.html" title="mxm" alt="" coords="101,52,173,100"/>
 <area shape="rect" href="dir_64fc1c90ac8db2fabff5028b99f876ee.html" title="compute" alt="" coords="5,148,77,196"/>
-<area shape="rect" href="dir_000005_000008.html" title="5" alt="" coords="80,134,88,149"/>
+<area shape="rect" href="dir_000005_000008.html" title="6" alt="" coords="80,134,88,149"/>
 <area shape="rect" href="dir_e4f2c1631a1e1d64d88b483620a5662a.html" title="storage" alt="" coords="101,148,173,196"/>
 <area shape="rect" href="dir_000005_000015.html" title="1" alt="" coords="142,122,150,137"/>
 <area shape="rect" href="dir_f84804d282e856a3a7520c9b0540dbc7.html" title="core" alt="" coords="137,244,209,292"/>

diff --git a/dir_ae360ab4b521d41729a4f224cff7d75f.html b/dir_ae360ab4b521d41729a4f224cff7d75f.html
@@ -86,7 +86,7 @@ Directory dependency graph for expression:</div>
 <area shape="rect" href="dir_64fc1c90ac8db2fabff5028b99f876ee.html" title="compute" alt="" coords="53,447,125,495"/>
 <area shape="rect" href="dir_000003_000009.html" title="14" alt="" coords="253,304,267,319"/>
 <area shape="rect" href="dir_000003_000015.html" title="11" alt="" coords="239,419,253,434"/>
-<area shape="rect" href="dir_000003_000008.html" title="21" alt="" coords="129,434,144,449"/>
+<area shape="rect" href="dir_000003_000008.html" title="22" alt="" coords="129,434,144,449"/>
 <area shape="rect" href="dir_000003_000000.html" title="5" alt="" coords="371,515,379,530"/>
 <area shape="rect" href="dir_44a335c666228cfad5fcd17bcf7101e7.html" title="utils" alt="" coords="352,255,424,303"/>
 <area shape="rect" href="dir_000017_000000.html" title="2" alt="" coords="405,520,413,535"/>

diff --git a/dir_07614c84026023929af3175e9d9b22b2.html b/dir_07614c84026023929af3175e9d9b22b2.html
@@ -85,7 +85,7 @@ Directory dependency graph for vector:</div>
 <area shape="rect" href="dir_000014_000015.html" title="7" alt="" coords="216,218,224,233"/>
 <area shape="rect" href="dir_f84804d282e856a3a7520c9b0540dbc7.html" title="core" alt="" coords="133,340,205,388"/>
 <area shape="rect" href="dir_000014_000009.html" title="9" alt="" coords="222,335,230,350"/>
-<area shape="rect" href="dir_000003_000008.html" title="21" alt="" coords="73,229,88,244"/>
+<area shape="rect" href="dir_000003_000008.html" title="22" alt="" coords="73,229,88,244"/>
 <area shape="rect" href="dir_000003_000015.html" title="11" alt="" coords="178,217,192,232"/>
 <area shape="rect" href="dir_000003_000009.html" title="14" alt="" coords="153,313,168,327"/>
 <area shape="rect" href="dir_000015_000009.html" title="5" alt="" coords="191,320,199,334"/>

diff --git a/dir_d8dbd84c64c338ea9cd0f238067aecb1.html b/dir_d8dbd84c64c338ea9cd0f238067aecb1.html
@@ -83,7 +83,7 @@ Directory dependency graph for matrix:</div>
 <area shape="rect" href="dir_000011_000015.html" title="5" alt="" coords="207,217,215,231"/>
 <area shape="rect" href="dir_f84804d282e856a3a7520c9b0540dbc7.html" title="core" alt="" coords="133,340,205,388"/>
 <area shape="rect" href="dir_000011_000009.html" title="8" alt="" coords="222,335,230,350"/>
-<area shape="rect" href="dir_000003_000008.html" title="21" alt="" coords="73,229,88,244"/>
+<area shape="rect" href="dir_000003_000008.html" title="22" alt="" coords="73,229,88,244"/>
 <area shape="rect" href="dir_000003_000015.html" title="11" alt="" coords="178,217,192,232"/>
 <area shape="rect" href="dir_000003_000009.html" title="14" alt="" coords="153,313,168,327"/>
 <area shape="rect" href="dir_000015_000009.html" title="5" alt="" coords="191,320,199,334"/>

diff --git a/dir_3fb060bb6725087b88e65cfc95051731.html b/dir_3fb060bb6725087b88e65cfc95051731.html
@@ -98,7 +98,7 @@ Directory dependency graph for algo:</div>
 <area shape="rect" href="dir_000004_000008.html" title="4" alt="" coords="241,238,249,253"/>
 <area shape="rect" href="dir_000005_000015.html" title="1" alt="" coords="355,235,363,249"/>
 <area shape="rect" href="dir_000005_000009.html" title="3" alt="" coords="323,353,331,368"/>
-<area shape="rect" href="dir_000005_000008.html" title="5" alt="" coords="262,253,270,268"/>
+<area shape="rect" href="dir_000005_000008.html" title="6" alt="" coords="262,253,270,268"/>
 <area shape="rect" href="dir_000006_000015.html" title="3" alt="" coords="277,246,285,260"/>
 <area shape="rect" href="dir_000006_000009.html" title="4" alt="" coords="218,336,226,351"/>
 <area shape="rect" href="dir_000006_000008.html" title="6" alt="" coords="167,229,175,244"/>
